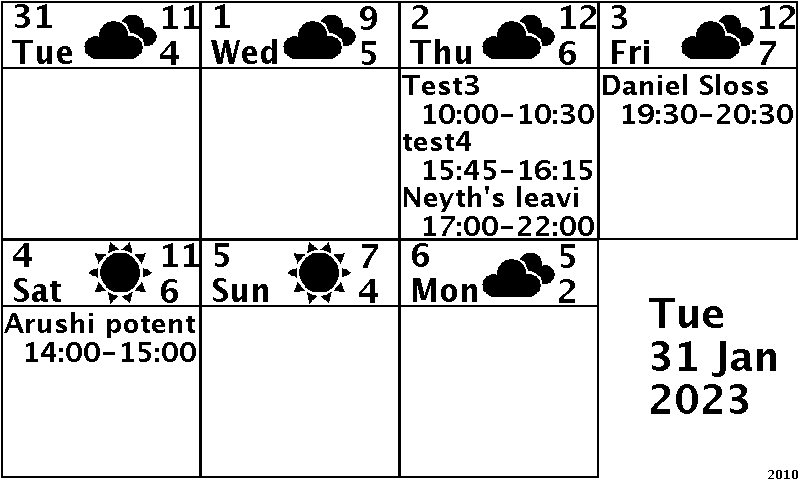
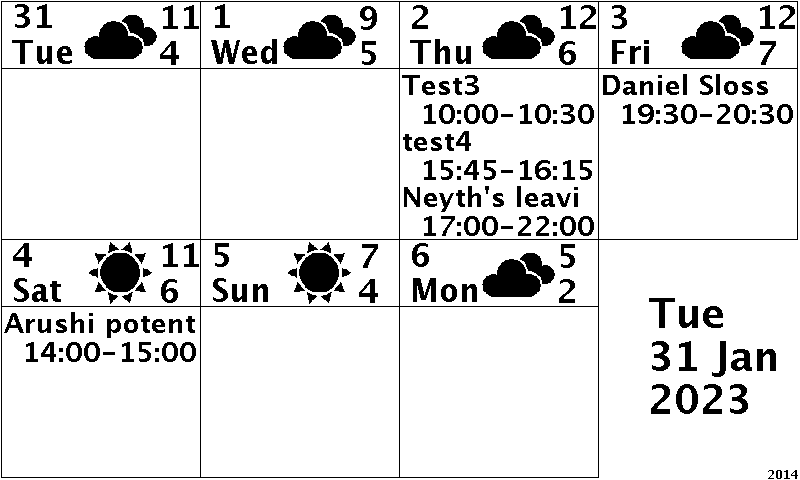
thickness

diff --git a/piCal/get_image.py b/piCal/get_image.py
@@ -118,7 +118,7 @@ class CalDraw():
         draw_black = ImageDraw.Draw(self.image_black)
 
 
-        linewidth = 2
+        linewidth = 1
         for i in range(7):
 
             day_ind = (i+now.weekday())%7
